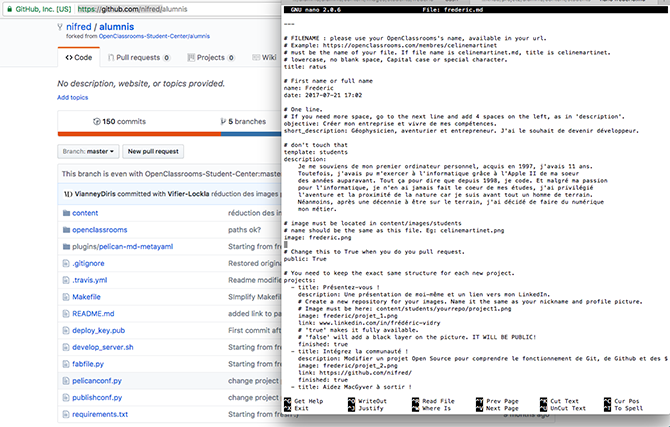
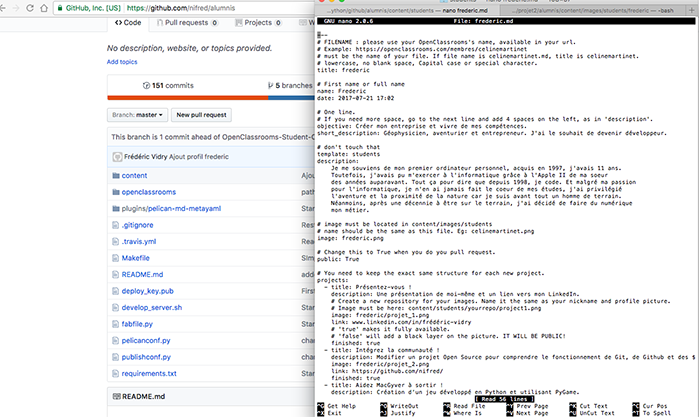
Ajout du  profil frederic

Changed region(s): [[0.0, 0.0, 1.0, 1.0]]

diff --git a/content/students/frederic.md b/content/students/frederic.md
@@ -1,10 +1,9 @@
 ---
-
 # FILENAME : please use your OpenClassrooms's name, available in your url.
 # Example: https://openclassrooms.com/membres/celinemartinet
 # must be the name of your file. If file name is celinemartinet.md, title is celinemartinet.
 # lowercase, no blank space, Capital case or special character.
-title: ratus
+title: frederic
 
 # First name or full name
 name: Frederic
